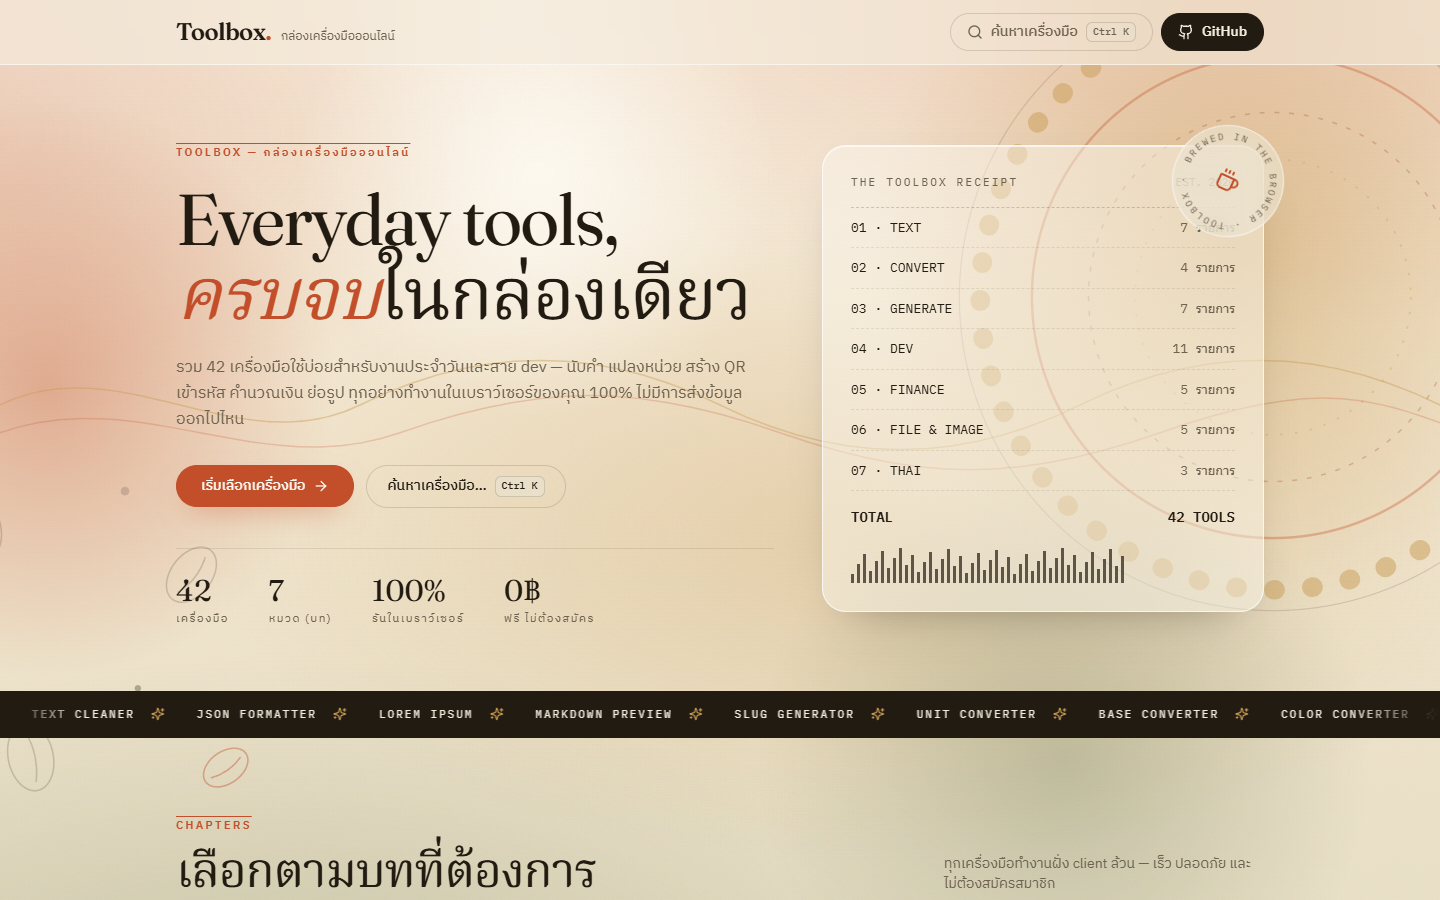
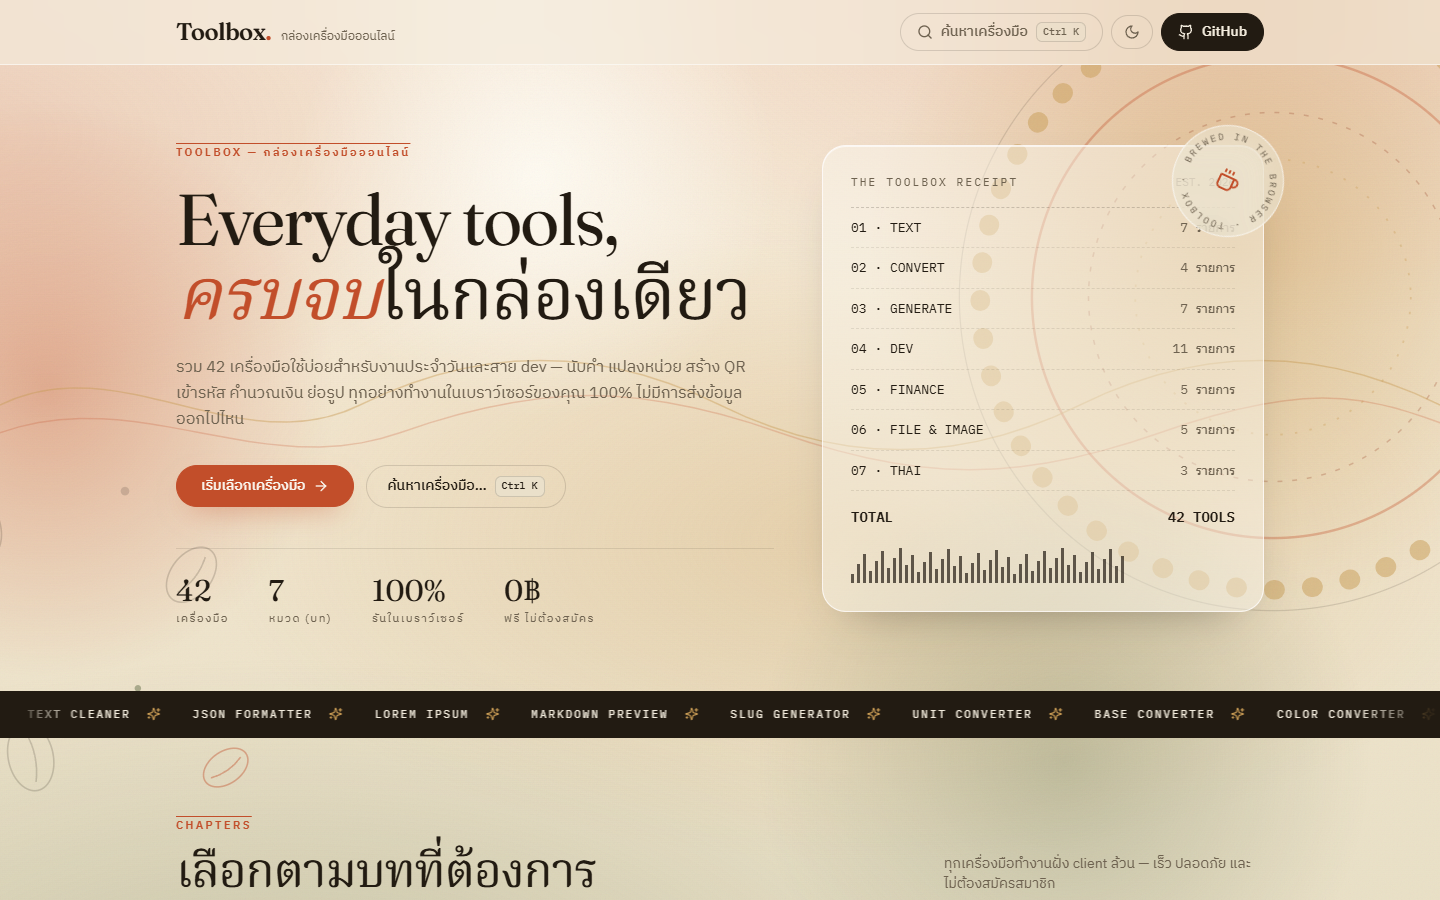
docs: dark mode section, screenshots and privacy note
Adds dark-mode highlight, light+dark screenshot pairs, localStorage theme-key disclosure in the privacy section, and refreshes the light screenshots (header now includes the theme toggle).

diff --git a/README.md b/README.md
@@ -34,6 +34,7 @@
 | 🔐 **Private by default** | ทุกการคำนวณรันในเบราว์เซอร์ — ข้อมูลของคุณไม่เคยออกจากเครื่อง (zero upload) |
 | ⚡ **Instant** | Static site ล้วน ไม่ต้องสมัคร ไม่ต้องล็อกอิน ไม่ต้องรอโหลด |
 | 🎨 **Editorial design** | ธีมกาแฟ · พื้นหลังงานศิลป์เคลื่อนไหว + parallax + การ์ดกระจกฝ้า |
+| 🌗 **Light / Dark** | สลับธีมได้ทุกหน้า — ตามระบบอัตโนมัติเมื่อยังไม่เลือก · จำค่าที่เลือกไว้ในเครื่อง |
 | ⌨ **Keyboard-first** | กด `Ctrl` + `K` ค้นหาเครื่องมือได้จากทุกหน้า |
 | 🇹🇭 **ไทย–อังกฤษ** | UI สองภาษา ทั้งชื่อเครื่องมือและคำอธิบาย |
 | 🧩 **One-file tools** | เพิ่มเครื่องมือใหม่ = 1 ไฟล์ + 1 entry — ที่เหลืออัปเดตอัตโนมัติ |
@@ -121,12 +122,16 @@
 |:--:|:--:|
 | <img src=".github/assets/chapters.png" alt="หน้ารวมบทและเครื่องมือ" width="100%" /> | <img src=".github/assets/tool-page.png" alt="หน้า Thai Date & Era" width="100%" /> |
 
+| โหมดมืด — Dark mode | หน้าเครื่องมือโหมดมืด — Tool page (dark) |
+|:--:|:--:|
+| <img src=".github/assets/hero-dark.png" alt="Toolbox โหมดมืด" width="100%" /> | <img src=".github/assets/tool-page-dark.png" alt="หน้า Thai Date & Era โหมดมืด" width="100%" /> |
+
 ## ⚙ Tech Stack
 
 | Layer | Stack |
 |:--|:--|
 | **Core** | React 19 · TypeScript 5.7 · Vite 6 |
-| **Styling** | Tailwind CSS v4 + ธีมกาแฟที่ออกแบบเอง (glass + parallax engine เขียนสด) |
+| **Styling** | Tailwind CSS v4 + ธีมกาแฟออกแบบเอง · light/dark สลับด้วย CSS variables ทั้งเว็บ (glass + parallax engine เขียนสด) |
 | **Routing** | react-router-dom v7 — HashRouter ใช้ได้ทุก subpath ของ GitHub Pages |
 | **Libraries** | qrcode · pdf-lib · lucide-react · Web Crypto API · Canvas API |
 | **Fonts** | Self-hosted ทั้งหมด — Fraunces · IBM Plex · Noto Serif Thai (SIL OFL) ไม่มี request ไป Google |
@@ -143,7 +148,7 @@ src/
 ├── data/
 │   ├── tools.ts        # registry: CHAPTERS + TOOLS (จุดเดียวที่ต้องแก้เวลาเพิ่มเครื่องมือ)
 │   └── site.ts         # ชื่อเว็บ + repo URL
-├── lib/                # ตรรกะแยกไฟล์ 18 ไฟล์ — md5 · diff · thai-date · thai-numbers · vat · minimd · ico · pdf · cron · …
+├── lib/                # ตรรกะแยกไฟล์ 20 ไฟล์ — md5 · diff · thai-date · thai-numbers · vat · theme · minimd · ico · pdf · cron · …
 └── pages/
     ├── Home.tsx
     └── tools/          # 1 ไฟล์ต่อ 1 เครื่องมือ — 42 ไฟล์ (lazy-load ทั้งหมด)
@@ -188,6 +193,8 @@ npm run preview    # ลองของจริงจาก dist/
 > ไม่มีการอัปโหลด ไม่มี cookie ไม่มี analytics และไม่มี backend ให้ข้อมูลไหลไปถึง
 
 อยากพิสูจน์? เปิด **DevTools → Network** แล้วลองใช้เครื่องมือต่าง ๆ — จะไม่เห็น request ที่ส่งข้อมูลของคุณออกไปเลย และตัวเว็บเองก็ไม่เรียกไฟล์จากภายนอกแม้แต่ชิ้นเดียว (ฟอนต์ self-host ทั้งหมด)
+
+**ค่าเดียวที่เว็บเก็บไว้ในเครื่องคุณ** คือธีมที่เลือก (สว่าง/มืด) ใน `localStorage` — ไม่มีข้อมูลอื่นถูกบันทึกเลย และค่านี้ไม่ถูกส่งออกไปไหน (ล้างทิ้งได้ตลอดด้วยการล้างข้อมูลเว็บไซต์ของเบราว์เซอร์)
 
 เว็บยัง**ติดตั้งเป็นแอป (PWA)** ได้ และเปิดใช้ต่อได้แม้ไม่มีเน็ต — Service Worker แคชเฉพาะไฟล์ของเว็บเอง ไม่มีข้อมูลใด ๆ วิ่งออกนอกเครื่องเช่นเดิม
 
